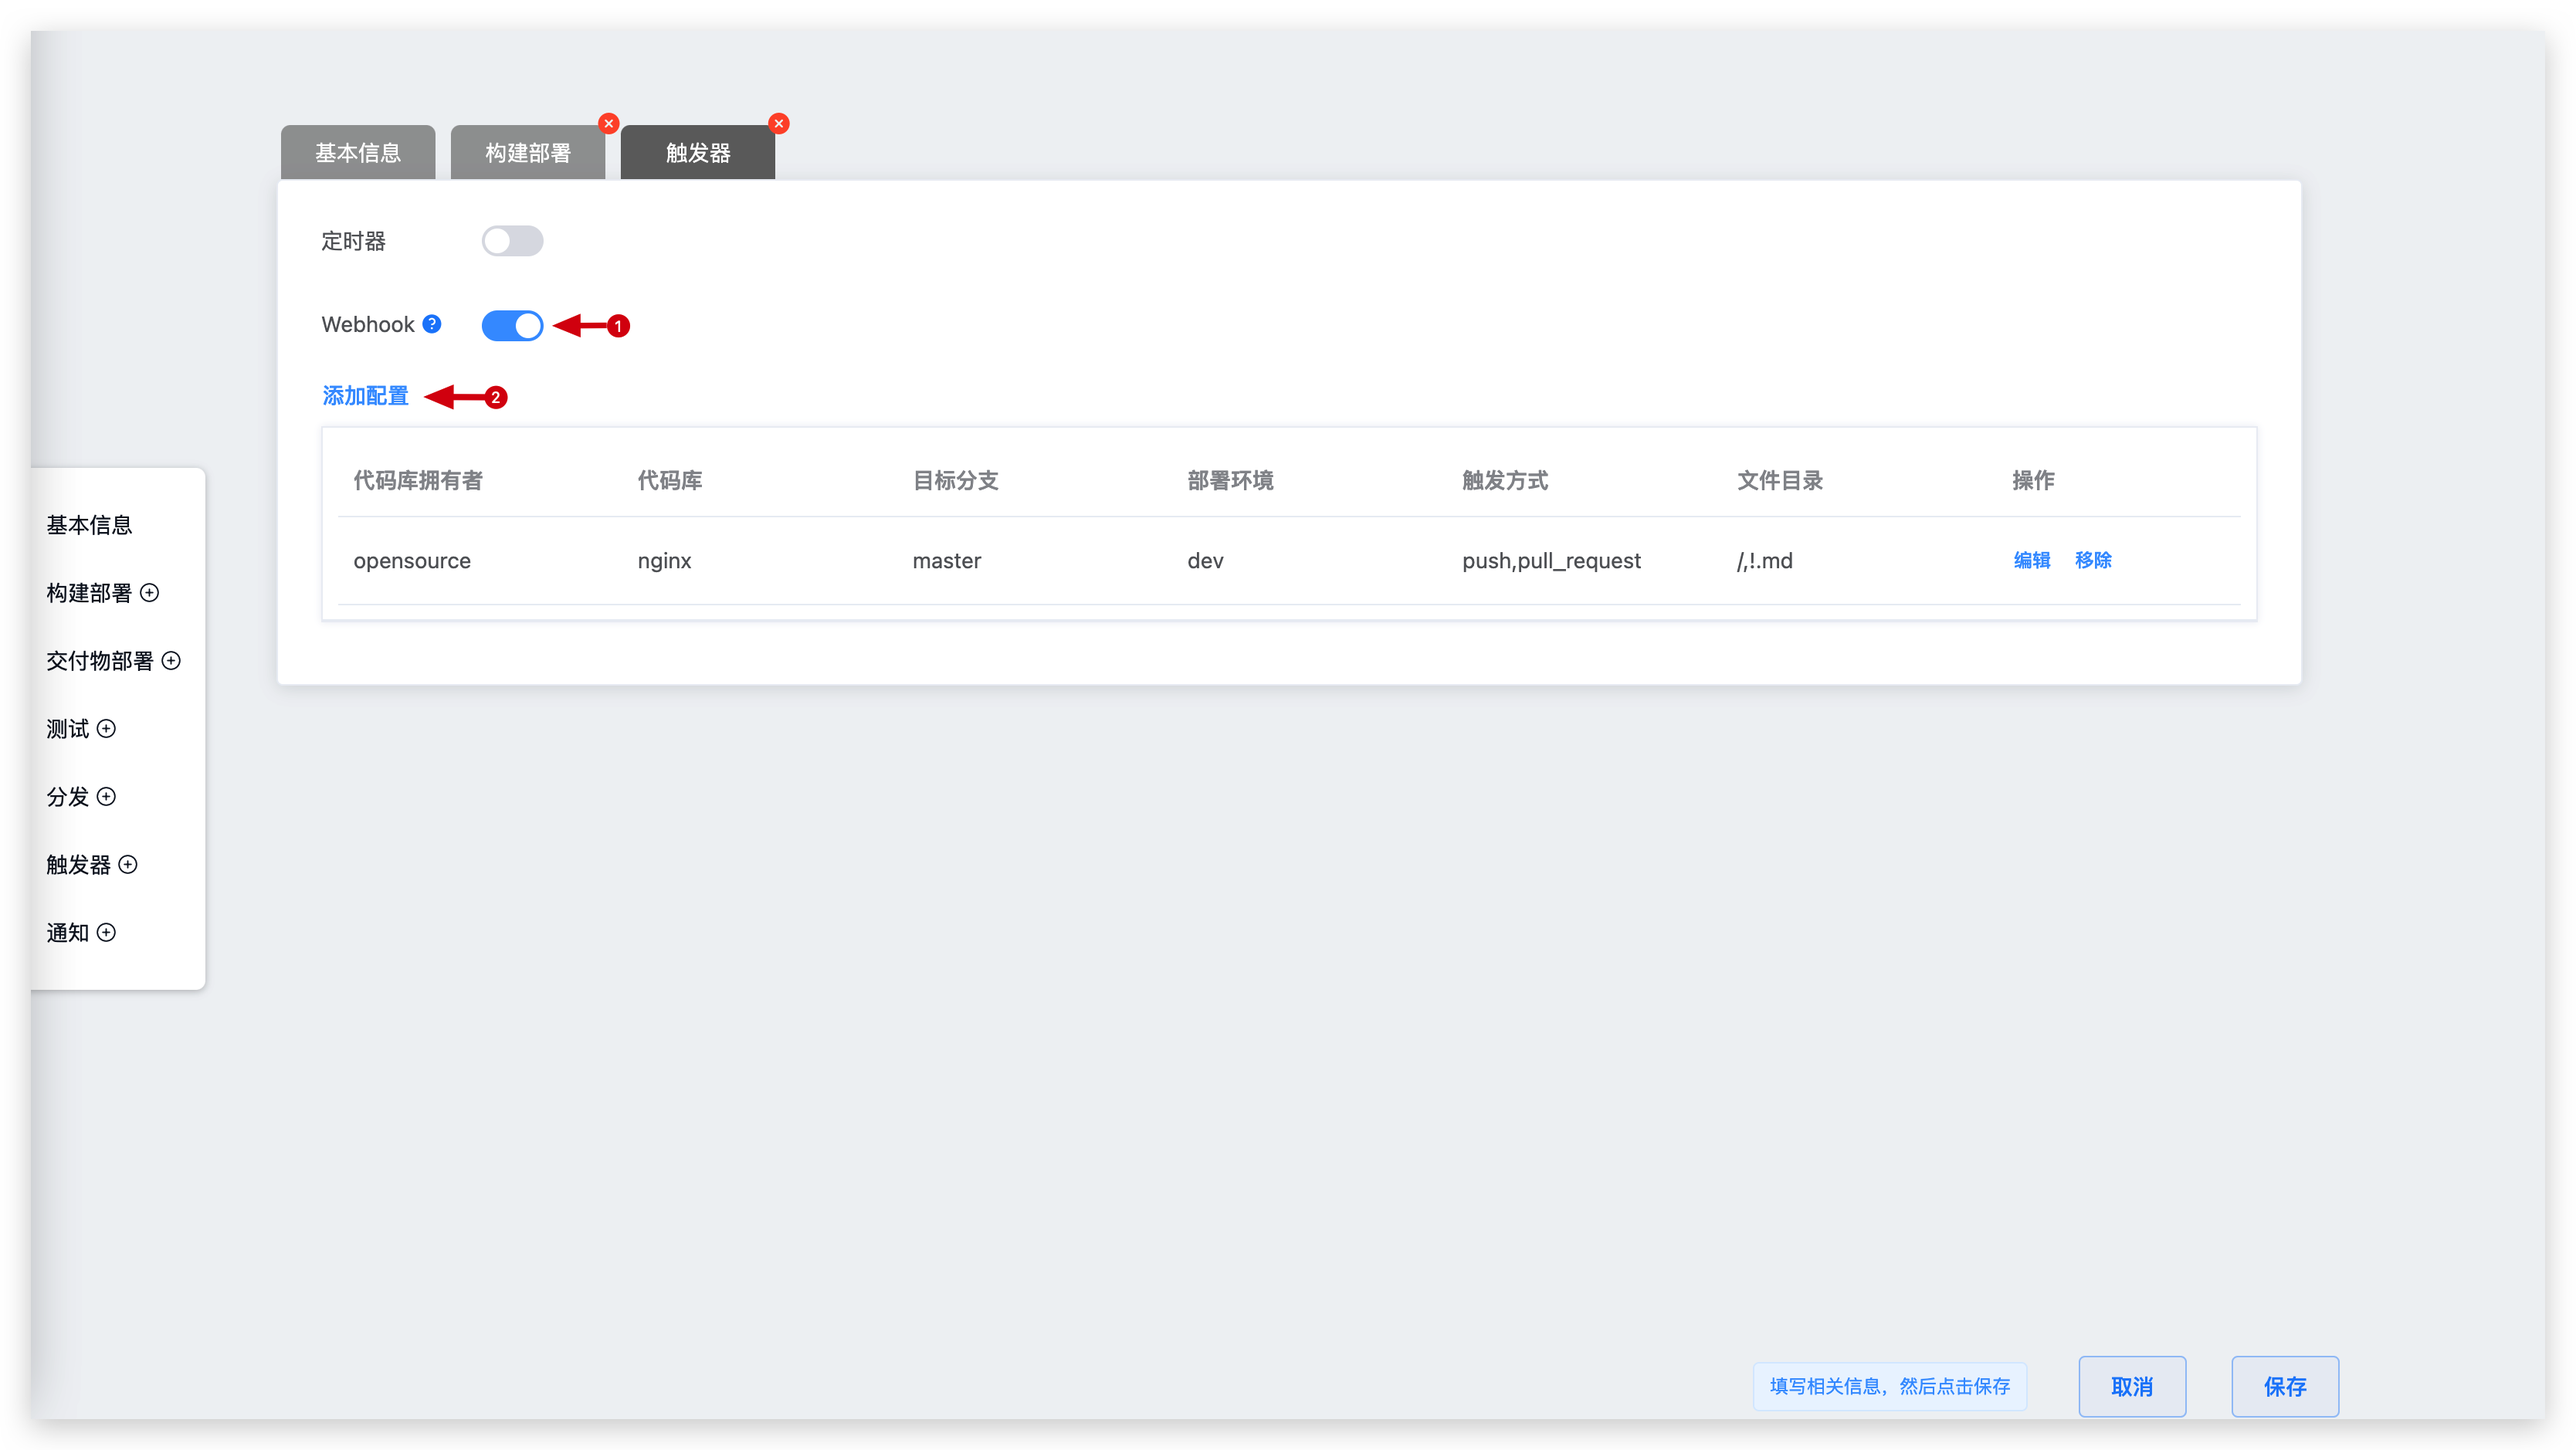
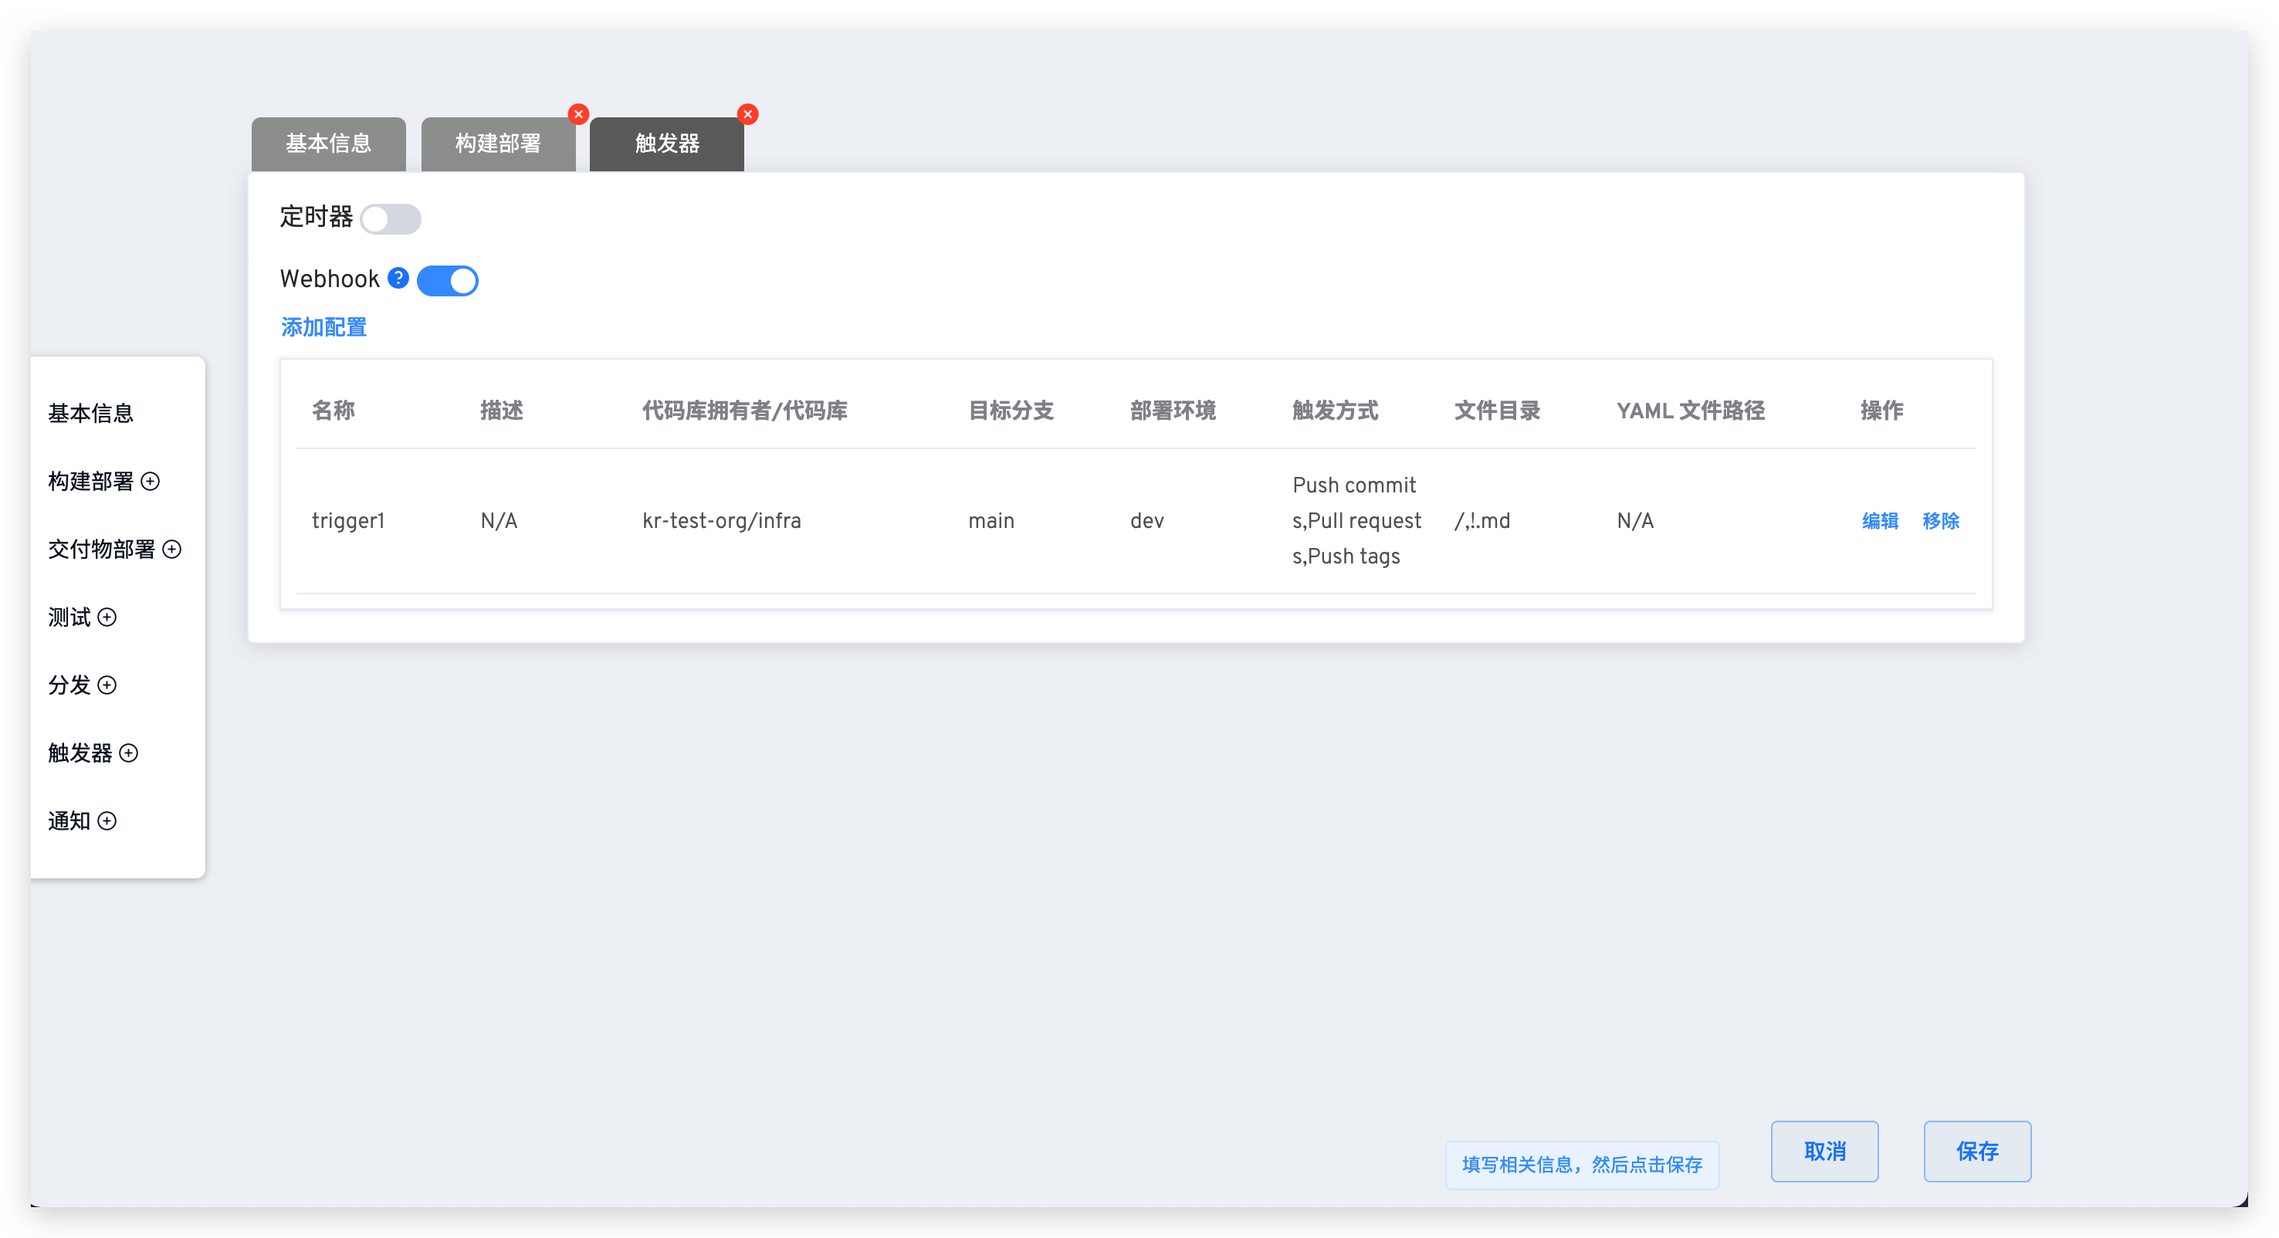
support tag event for webhook

diff --git a/dev/04.项目/02.workflow.md b/dev/04.项目/02.workflow.md
@@ -131,14 +131,14 @@ permalink: /dev/project/workflow/
 - `部署环境`：指定触发任务部署步骤更新的环境，可指定多个环境。
 - `环境更新策略`：部署步骤更新环境的策略，可选策略如下：
     - `更新指定环境`：`部署环境`参数中指定一个环境时可选，部署更新该环境。
-    - `动态选择空闲环境更新`：在`部署环境`指定的环境中，动态选择一个相对空闲的环境，对其进行部署更新。
-    ::: tip
-    环境的空闲标准由正在对其进行部署更新的工作流任务数量而定，Webhook 触发事件发生时，当前工作流任务比较少的环境即为相对空闲的环境。
-    :::
+    - `动态选择空闲环境更新`：在`部署环境`指定的环境中，动态选择一个相对空闲的环境，对其进行部署更新。环境的空闲标准由正在对其进行部署更新的工作流任务数量而定，Webhook 触发事件发生时，当前工作流任务比较少的环境即为相对空闲的环境。
     - `设定指定环境为基准环境`：**[高级选项]** `部署环境`参数中指定一个环境，且代码库是 GitLab 代码源时可选。以该环境的服务版本为基础创建一个名为 `pr-prID-随机字符串`的环境，对该环境进行部署更新。
 - `环境销毁策略`：**[高级选项]** `环境更新策略`为`设定指定环境为基准环境`时可选。在 Webhook 事件触发工作流执行完毕后，对上述 `pr-prID-随机字符串`环境的销毁策略，包括：每次保留，每次销毁，工作流成功后销毁。
 - `部署服务`: 指定触发任务构建部署的相应服务。
-- `触发事件`: `push` 事件（Merge 操作）时触发，`pull_request` 提交 pull request 时触发，`change-merged` 修改被 merge 之后触发。
+- `触发事件`: 指定触发工作流运行的 Webhook 事件，可选事件如下：
+    - `Push commits` 事件（Merge 操作）时触发。
+    - `Pull requests` 提交 pull request 时触发。
+    - `Push tags` 新建 tag 之后触发。
 - `触发策略`: 如果你希望只构建最新的提交，则使用这个选项会自动取消队列中的任务。
 - `文件目录`: 通过设置文件和文件目录，可以实现对文件以及目录的监听，当文件或者目录发生变化时（新增、修改或者删除），触发工作流。也可以忽略对应的文件或者目录变更，不进行工作流的触发。
 
@@ -222,6 +222,7 @@ rules:
   events:
       - pull_request
       - push
+      - tag
   strategy:
     # 自动取消，如果您希望只构建最新的提交，则使用这个选项会自动取消队列中的任务
     auto_cancel: true    
